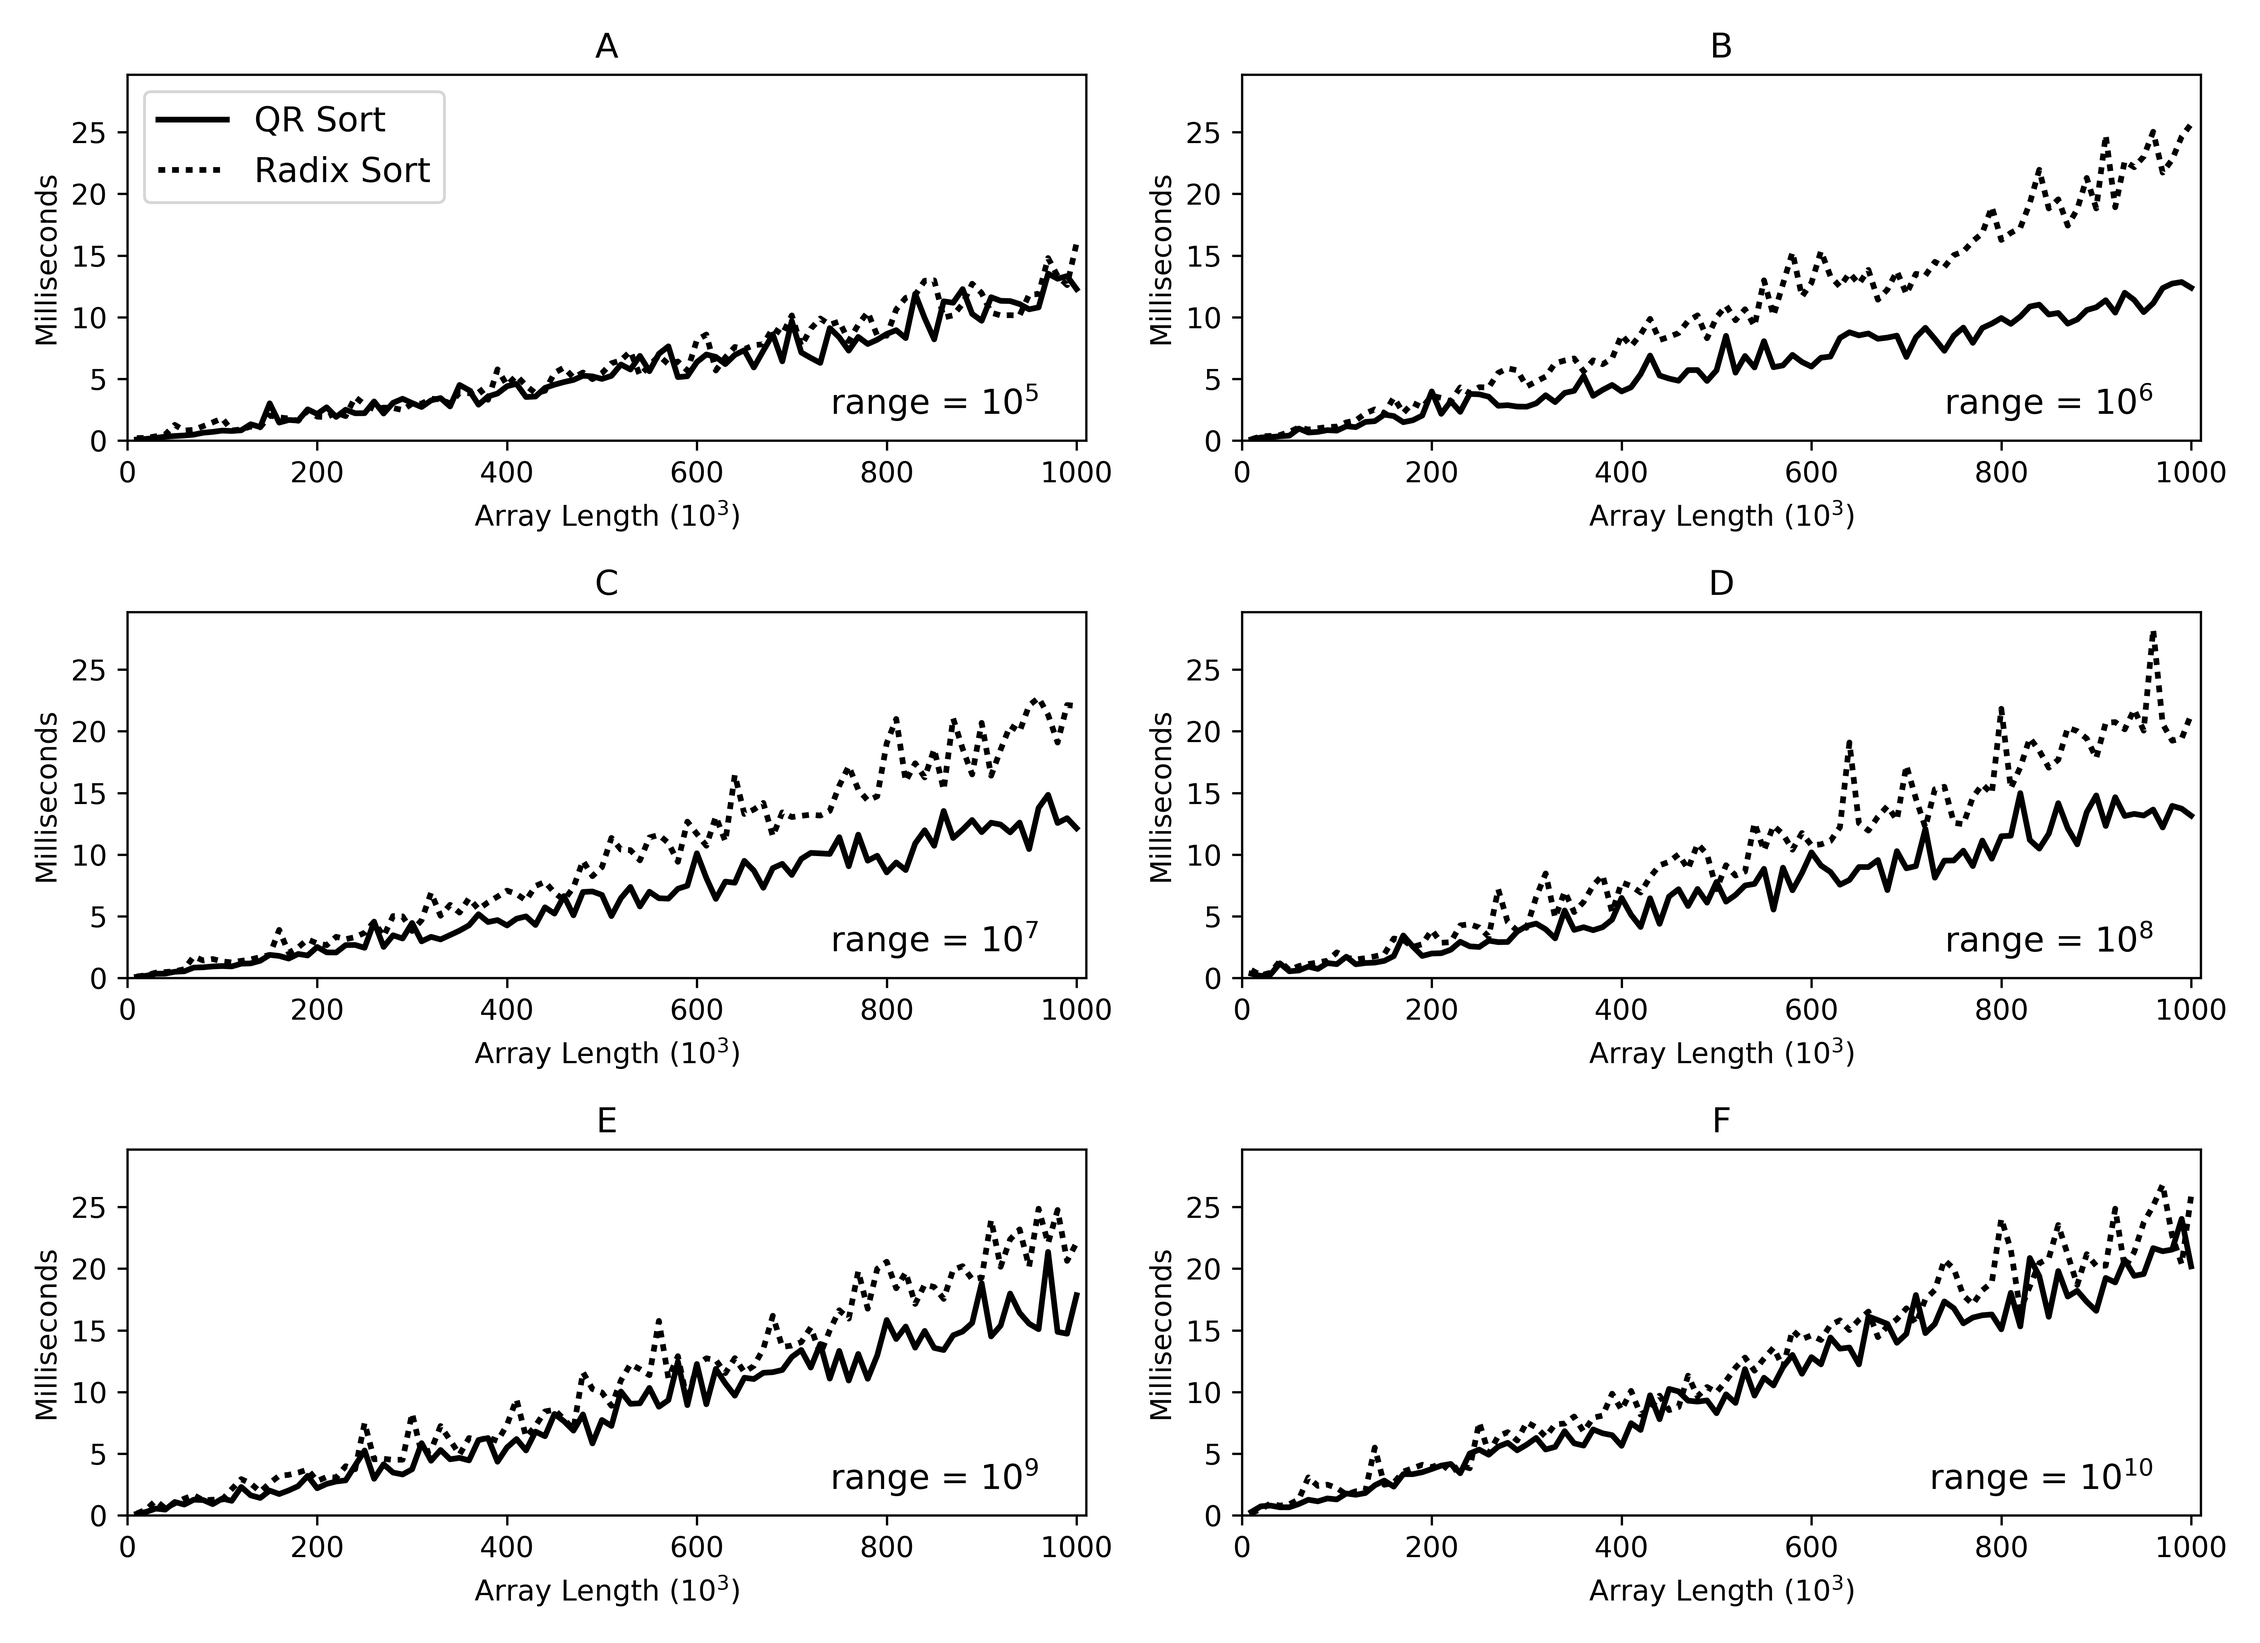
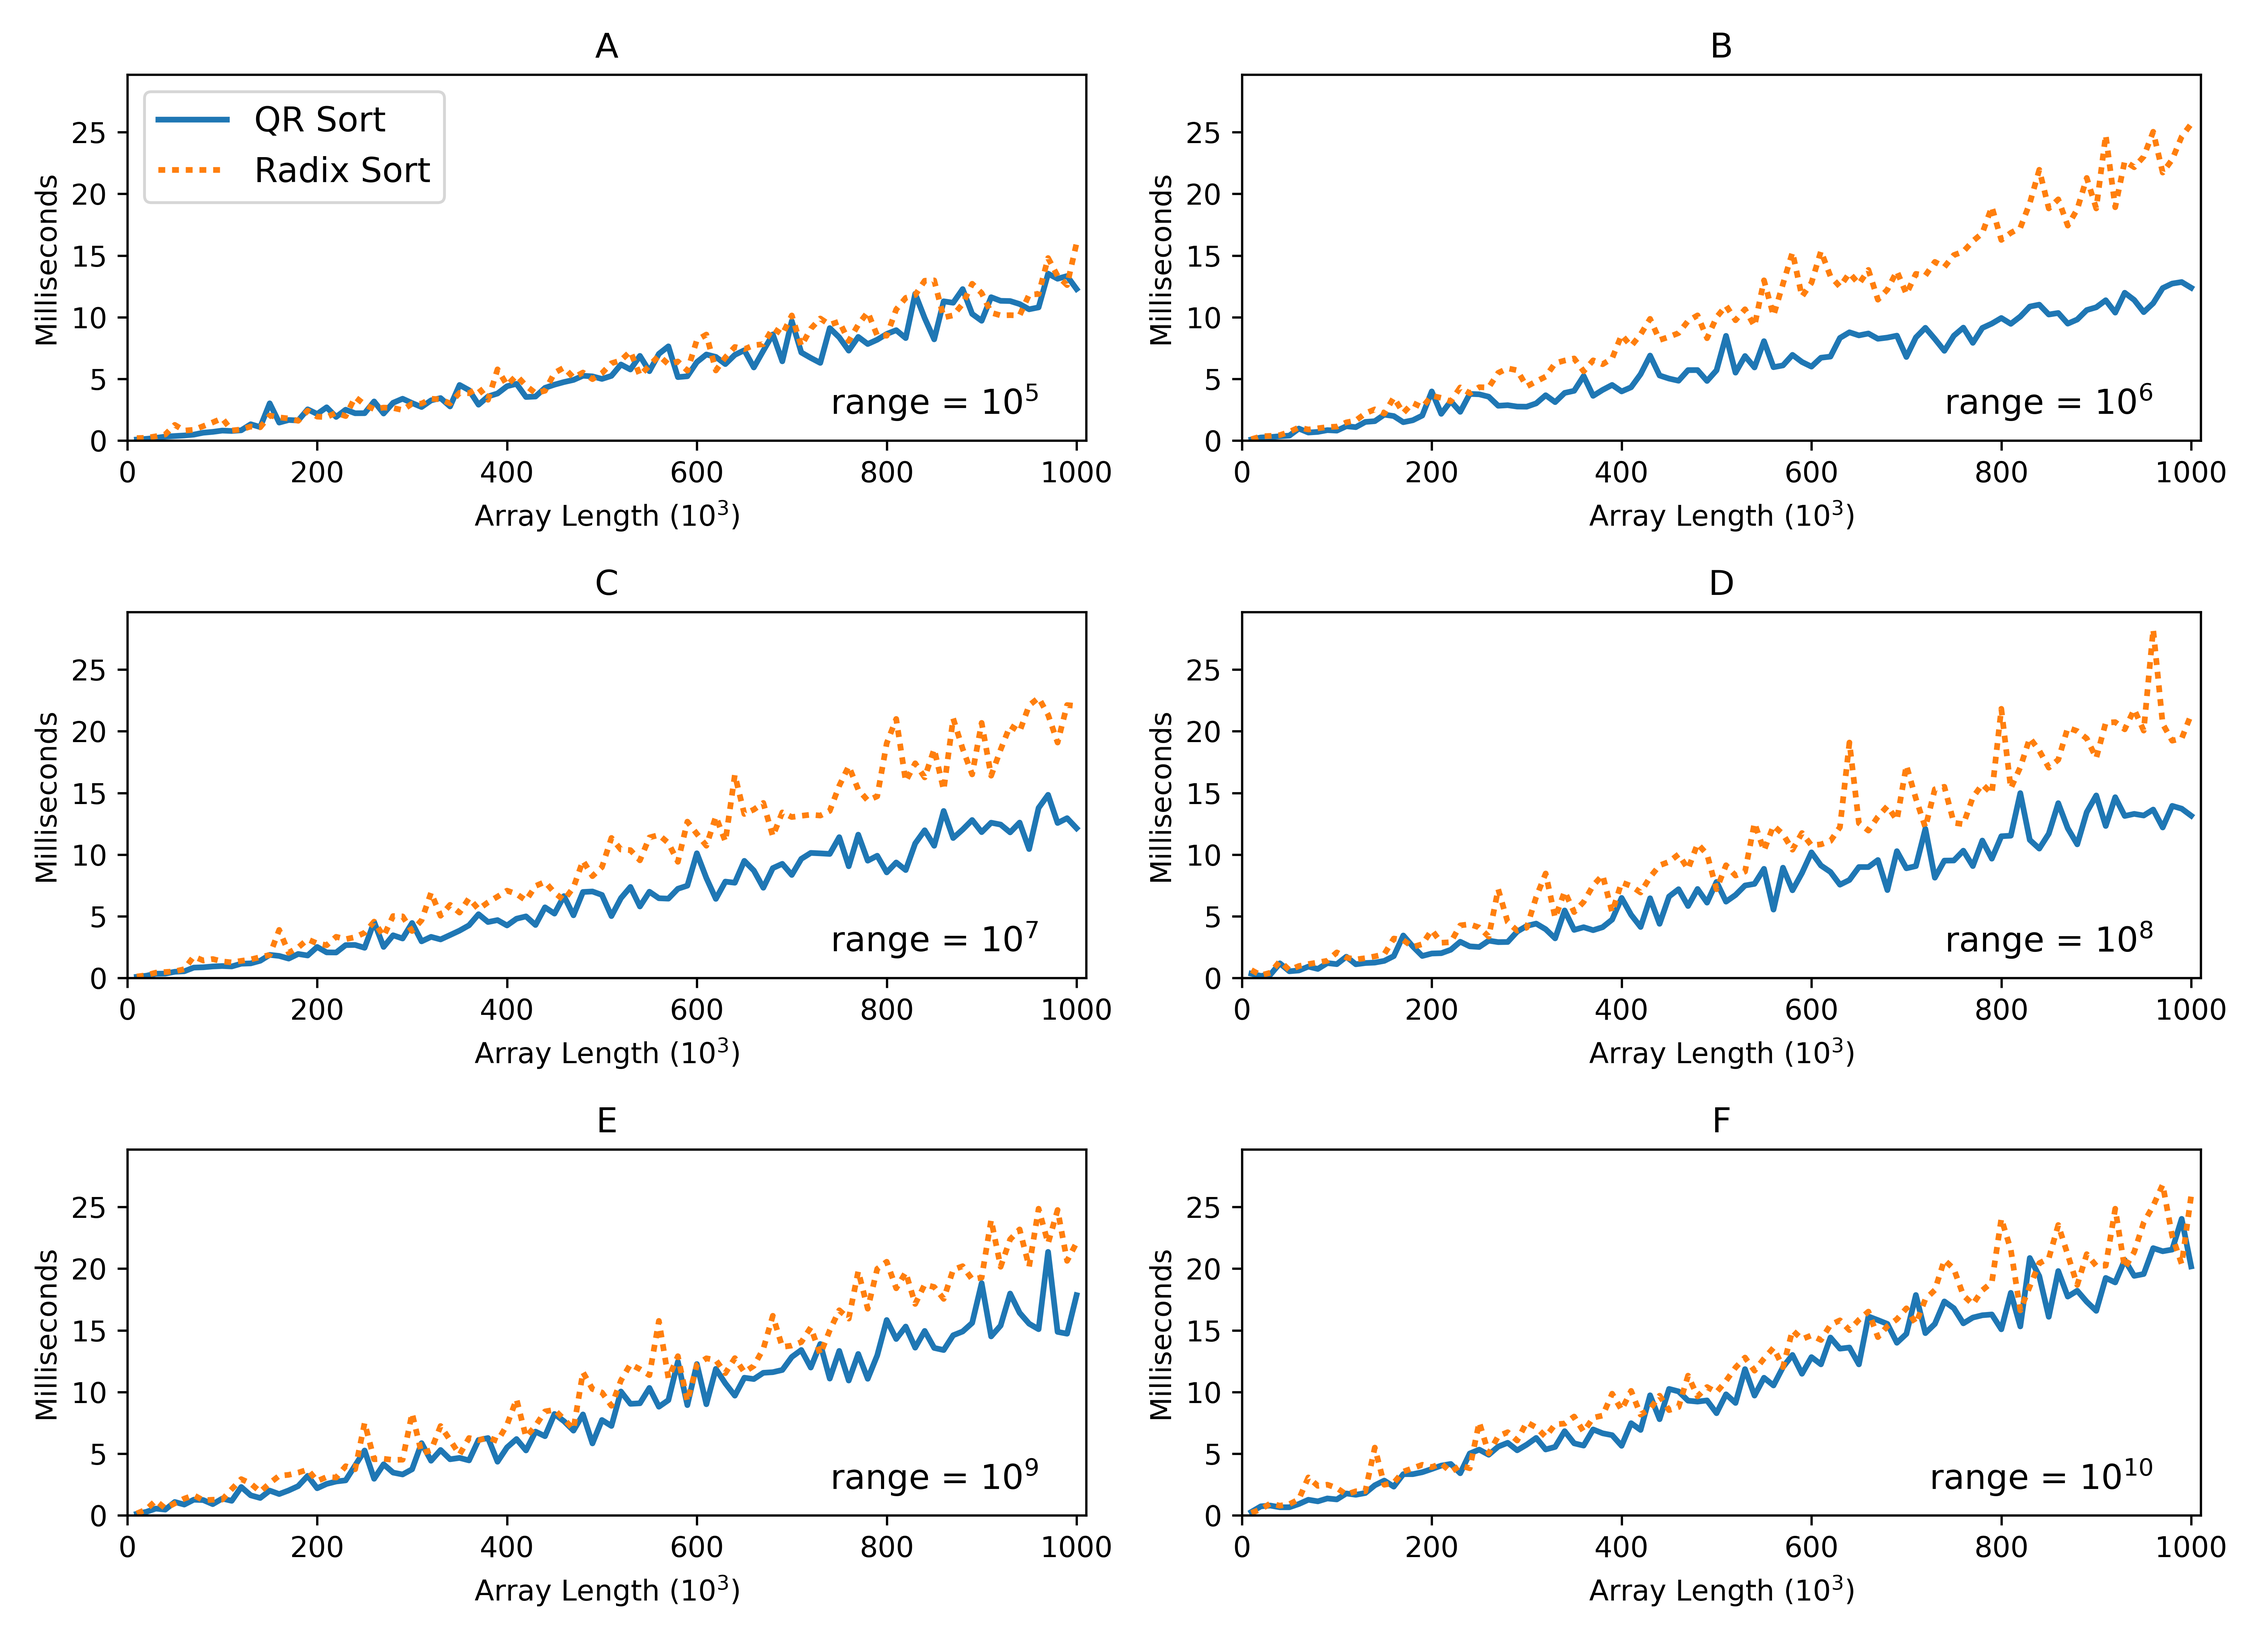
the boss said these graphs were okay

diff --git a/experiment_graph_maker.py b/experiment_graph_maker.py
@@ -3,13 +3,28 @@ import pandas as pd
 
 FIGURE_DPI = 600
 
-# Monochrome encoding: all black, identity via dash patterns
+# Line patterns for distinct styles
 pattern_map = {
     "QR Sort": (None, None),              # solid
     "Radix Sort": (0, (1.2, 1.2)),        # dotted
     "Counting Sort": (0, (3, 2, 1.2, 2)), # dash-dot
     "Quicksort": (0, (6, 2)),             # dashed
-    "Merge Sort": (0, (5, 2, 1, 2)),      # double-dash (distinct from Quicksort)
+    "Merge Sort": (None, None),      # long+short dash
+}
+
+# Marker styles (only for Quicksort and Merge Sort)
+marker_map = {
+    # "Quicksort": "o",   # circle
+    "Merge Sort": "o",  # square
+}
+
+# Original color palette
+color_map = {
+    "QR Sort": "C0",
+    "Radix Sort": "C1",
+    "Counting Sort": "C2",
+    "Quicksort": "C3",
+    "Merge Sort": "green"
 }
 
 
@@ -22,13 +37,6 @@ def plot_from_csv(
 ) -> float:
     """
     Plot specified columns from a CSV file onto a given Axes subplot.
-
-    :param ax: matplotlib Axes for plotting
-    :param csv_file: Path to CSV file
-    :param x_col: Column name for x-axis data
-    :param include_cols: Columns to include (order preserved). None → all except x_col.
-    :param x_scale: Scaling factor applied to x-axis values
-    :return: Maximum y-value among plotted columns
     """
     df = pd.read_csv(csv_file)
 
@@ -45,9 +53,11 @@ def plot_from_csv(
             x_values,
             y_values,
             label=col,
-            color="black",
+            color=color_map.get(col, "black"),
             linestyle="-" if pattern_map[col] == (None, None) else (0, pattern_map[col][1]),
             linewidth=2.0,
+            marker=marker_map.get(col, None),
+            markevery=7,
         )
 
         max_y = max(max_y, y_values.max())
